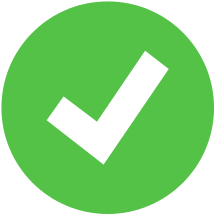
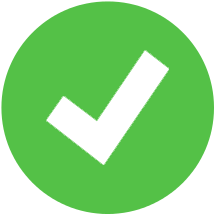
Oops. And here’s the update🤔
- Added a headline over the carousel
- Fixed checkmark transparency
- "Centralized" background and foreground colors in scss
- Slightly adapted for different screen extensions (on 4k it still looks small (sorry😔))
- Added 3 more blocks for information

diff --git a/index.html b/index.html
@@ -17,11 +17,7 @@
     />
     <link rel="stylesheet" href="res\css\main.css" />
     <link rel="icon" href="res\img\favicon.ico" type="image/x-icon" />
-    <link
-      rel="shortcut icon"
-      href="res\img\favicon.ico"
-      type="image/x-icon"
-    />
+    <link rel="shortcut icon" href="res\img\favicon.ico" type="image/x-icon" />
   </head>
 
   <body>
@@ -100,7 +96,12 @@
       </div>
     </header>
     <!------------------------------->
-    <main>
+    <main role="main" class="container">
+      <hr style="width: 70%;" />
+      <div class="title">
+        <h2>Страхова компанія "Skiper"</h2>
+        <p>Ваш надійний друже на все життя</p>
+      </div>
       <hr />
       <div class="container-lg-4">
         <div id="carouselId" class="carousel slide" data-ride="carousel">
@@ -175,29 +176,23 @@
       <div class="info">
         <div class="container-fluid" style="margin: 25px 0 25px 0;">
           <div class="row">
-            <div
-              class="col-sm-4 rounded float-left"
-              style="background-color: #343a40;"
-            >
+            <div class="col-sm-4 rounded float-left first">
               <center>
-                <img src="res\img\money-icon.png" alt="checked" />
+                <img src="res\img\money-icon.png" alt="money" />
                 <h3>У нас найвигідніші ціни!</h3>
                 <p>Чи ви бачили десь такі ціни? Особисто я ні...</p>
               </center>
             </div>
-            <div
-              class="col-sm-4 rounded mx-auto d-block"
-              style="background-color: #2b2d30;"
-            >
+            <div class="col-sm-4 rounded mx-auto d-block second">
               <center>
                 <img src="res\img\Check_green_icon.png" alt="checked" />
                 <h3>Веріфіковані спеціалісти</h3>
                 <p>Ніяких "лівих" співробітників. Лише досвідні люди</p>
               </center>
             </div>
-            <div class="col-sm-4" style="background-color: #343a40;">
+            <div class="col-sm-4 first">
               <center>
-                <img src="res\img\clock.png" alt="checked" />
+                <img src="res\img\clock.png" alt="clock" />
                 <h3>Найшвидше оформлення!</h3>
                 <p>Переконайтеся самі, або ми не повернимо вам грощі...</p>
               </center>
@@ -205,6 +200,86 @@
           </div>
         </div>
       </div>
+      <!------------------------------->
+      <div class="row no-gutters bg-dark position-relative full-card-info">
+        <div
+          class="col-md-6 mb-md-0 p-md-4 w-md-100 first-part d-md-none d-block"
+        >
+          <center>
+            <img src="" alt="picture" />
+          </center>
+        </div>
+        <div class="col-md-6 position-static p-md-4 p-4 pl-md-0 second-part">
+          <h5 class="mt-0">Columns with stretched link</h5>
+          <p>
+            Cras sit amet nibh libero, in gravida nulla. Nulla vel metus
+            scelerisque ante sollicitudin. Cras purus odio, vestibulum in
+            vulputate at, tempus viverra turpis. Fusce condimentum nunc ac nisi
+            vulputate fringilla. Donec lacinia congue felis in faucibus.
+          </p>
+          <a name="" id="" class="btn btn-primary" href="#" role="button"
+            >Button</a
+          >
+        </div>
+        <div
+          class="col-md-6 mb-md-0 p-md-4 w-md-100 first-part d-none d-md-block"
+        >
+          <center>
+            <img src="" alt="picture" />
+          </center>
+        </div>
+      </div>
+      <!------------------------------->
+      <div class="row no-gutters bg-dark position-relative full-card-info">
+        <div class="col-md-6 mb-md-0 p-md-4 w-md-100 first-part">
+          <center>
+            <img src="" alt="picture" />
+          </center>
+        </div>
+        <div class="col-md-6 position-static p-md-4 p-4 pl-md-0 second-part">
+          <h5 class="mt-0">Columns with stretched link</h5>
+          <p>
+            Cras sit amet nibh libero, in gravida nulla. Nulla vel metus
+            scelerisque ante sollicitudin. Cras purus odio, vestibulum in
+            vulputate at, tempus viverra turpis. Fusce condimentum nunc ac nisi
+            vulputate fringilla. Donec lacinia congue felis in faucibus.
+          </p>
+          <a name="" id="" class="btn btn-primary" href="#" role="button"
+            >Button</a
+          >
+        </div>
+      </div>
+      <!------------------------------->
+      <div class="row no-gutters bg-dark position-relative full-card-info">
+        <div
+          class="col-md-6 mb-md-0 p-md-4 w-md-100 first-part d-md-none d-block"
+        >
+          <center>
+            <img src="" alt="PC_User" />
+            <!--res\img\PC_user.jpg-->
+          </center>
+        </div>
+        <div class="col-md-6 position-static p-md-4 p-4 pl-md-0 second-part">
+          <h5 class="mt-0">
+            Цінуйте свій час - вибирайте електронний поліс Автоцивілки!
+          </h5>
+          <p>
+            В Украине стремительно увеличивается количество пользователей
+            электронных
+          </p>
+          <a name="" id="" class="btn btn-primary" href="#" role="button"
+            >Button</a
+          >
+        </div>
+        <div
+          class="col-md-6 mb-md-0 p-md-4 w-md-100 first-part d-none d-md-block"
+        >
+          <center>
+            <img src="" alt="picture" />
+          </center>
+        </div>
+      </div>
+      <!------------------------------->
     </main>
     <footer class="page-footer font-small blue pt-4 fixed-botton">
       <div class="footer-copyright text-center py-3">

diff --git a/res/css/main.css b/res/css/main.css
@@ -1,23 +1,22 @@
+h1 h2 h3 h4 h5 h6 p {
+  font-family: "Oswald", sans-serif;
+  font-size: medium;
+}
+
 .selector-for-some-widget {
   box-sizing: content-box;
 }
 
 footer {
   font-family: "fantasy";
-
   color: white;
   background-color: #1b7255;
-
   flex: 0 0 auto;
   src: url("fonts/roboto.ttf");
 }
 
 body {
   background: linear-gradient(45deg, #3cb371, #c5dde8);
-}
-
-h3 {
-  color: #00e676;
 }
 
 .carousel-inner img {
@@ -31,6 +30,7 @@ h3 {
 }
 .carousel-inner .carousel-caption h3 {
   opacity: 1;
+  color: #00e676;
 }
 
 .container-lg-4 {
@@ -39,23 +39,19 @@ h3 {
 
 .row {
   margin-top: 20px;
+  background-color: #343a40;
 }
 .row h2 {
   font-family: "fantasy";
-
   color: white;
-
   src: url("fonts/roboto.ttf");
 }
 .row h3 {
   text-align: center;
-
+  color: #00e676;
   border-top: white;
 }
 .row p {
-  font-family: "Oswald", sans-serif;
-  font-size: medium;
-
   color: white;
 }
 .row img {
@@ -67,11 +63,49 @@ h3 {
 hr {
   width: 87%;
   height: 12px;
-
   color: #343a40;
   border: solid;
   border-radius: 100;
   background-color: #343a40;
+}
+
+.full-card-info .first-part {
+  background-color: #2b2d30;
+}
+.full-card-info .second-part {
+  background-color: #343a40;
+}
+.full-card-info .second-part h5 {
+  color: #00e676;
+}
+.full-card-info .second-part p {
+  color: white;
+}
+.full-card-info .second-part a {
+  border-color: #00e676;
+  background-color: #3cb371;
+}
+
+.first {
+  background-color: #343a40;
+}
+
+.second {
+  background-color: #2b2d30;
+}
+
+.title {
+  opacity: 0.8;
+  border-radius: 20px;
+  background-color: gray;
+}
+.title h2 {
+  text-align: center;
+  color: #00e676;
+}
+.title p {
+  text-align: center;
+  color: white;
 }
 
 /*# sourceMappingURL=main.css.map */

diff --git a/res/scss/main.scss b/res/scss/main.scss
@@ -1,7 +1,14 @@
 $primer-color: #3cb371;
 $second-color: #343a40;
+$light-second-color: #2b2d30;
 $down: #1b7255;
 $cummon-text: white;
+$title-text: #00e676;
+
+h1 h2 h3 h4 h5 h6 p {
+  font-family: "Oswald", sans-serif;
+  font-size: medium;
+}
 
 .selector-for-some-widget {
   box-sizing: content-box;
@@ -18,9 +25,6 @@ footer {
 body {
   background: linear-gradient(45deg, $primer-color, #c5dde8);
 }
-h3 {
-  color: #00e676;
-}
 .carousel-inner {
   img {
     width: 100%;
@@ -32,6 +36,7 @@ h3 {
     background-color: gray;
     h3 {
       opacity: 1;
+      color: $title-text;
     }
   }
 }
@@ -40,6 +45,8 @@ h3 {
 }
 .row {
   margin-top: 20px;
+
+  background-color: $second-color;
   h2 {
     font-family: "fantasy";
 
@@ -50,12 +57,10 @@ h3 {
   h3 {
     text-align: center;
 
+    color: $title-text;
     border-top: $cummon-text;
   }
   p {
-    font-family: "Oswald", sans-serif;
-    font-size: medium;
-
     color: $cummon-text;
   }
   img {
@@ -72,4 +77,43 @@ hr {
   border: solid;
   border-radius: 100;
   background-color: $second-color;
+}
+.full-card-info {
+  .first-part {
+    background-color: $light-second-color;
+  }
+  .second-part {
+    background-color: $second-color;
+    h5 {
+      color: $title-text;
+    }
+    p {
+      color: $cummon-text;
+    }
+    a {
+      border-color: $title-text;
+      background-color: $primer-color;
+    }
+  }
+}
+.first {
+  background-color: $second-color;
+}
+.second {
+  background-color: $light-second-color;
+}
+.title {
+  opacity: 0.8;
+  border-radius: 20px;
+  background-color: gray;
+  h2 {
+    text-align: center;
+
+    color: $title-text;
+  }
+  p {
+    text-align: center;
+
+    color: $cummon-text;
+  }
 }
